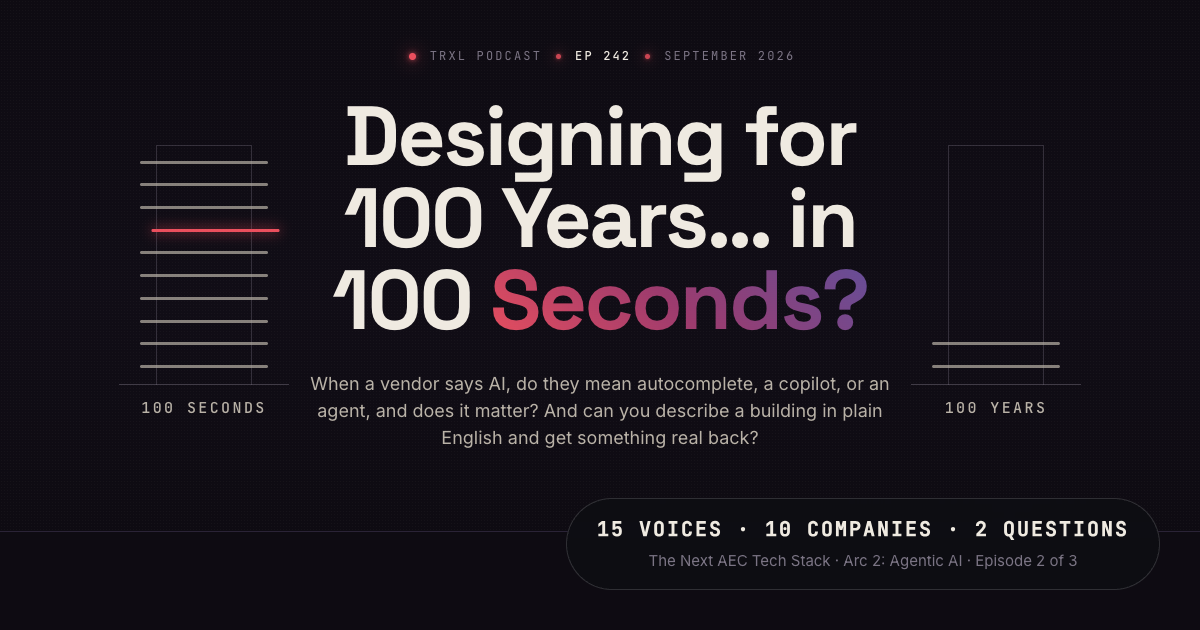
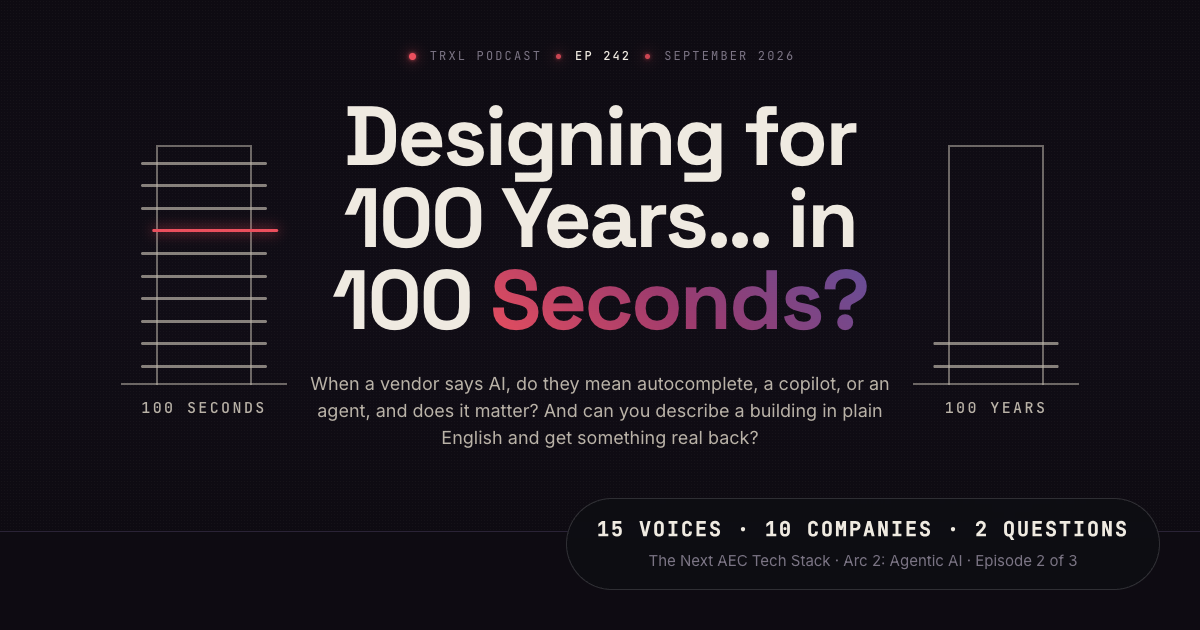
242: stronger tower outlines in hero and og.png

diff --git a/242-100-years-100-seconds/assets/field-report.css b/242-100-years-100-seconds/assets/field-report.css
@@ -195,12 +195,12 @@ html.js-motion .reveal.is-in { opacity: 1; transform: none; }
   position: relative;
   width: min(9vw, 96px);
   aspect-ratio: 2 / 5;
-  border: 1.5px solid color-mix(in oklab, var(--ep-fg-3) 34%, transparent);
+  border: 2px solid color-mix(in oklab, var(--ep-fg-2) 55%, transparent);
   border-bottom-width: 0;
 }
 .ep242-tower::after { /* ground line */
   content: ""; position: absolute; left: -40%; right: -40%; bottom: 0;
-  height: 1.5px; background: color-mix(in oklab, var(--ep-fg-3) 45%, transparent);
+  height: 2px; background: color-mix(in oklab, var(--ep-fg-2) 55%, transparent);
 }
 /* Slabs sit in a wider box so they can project past the facade; the box is
    revealed bottom-up with a stepped clip, one floor per step. */

diff --git a/242-100-years-100-seconds/index.html b/242-100-years-100-seconds/index.html
@@ -17,8 +17,8 @@
   <meta property="og:image:height" content="630">
   <meta name="twitter:card" content="summary_large_image">
   <link rel="icon" type="image/png" href="assets/favicon.png">
-  <link rel="stylesheet" href="assets/trxl-tokens.css?v=50">
-  <link rel="stylesheet" href="assets/field-report.css?v=50">
+  <link rel="stylesheet" href="assets/trxl-tokens.css?v=51">
+  <link rel="stylesheet" href="assets/field-report.css?v=51">
 </head>
 <body>
 
